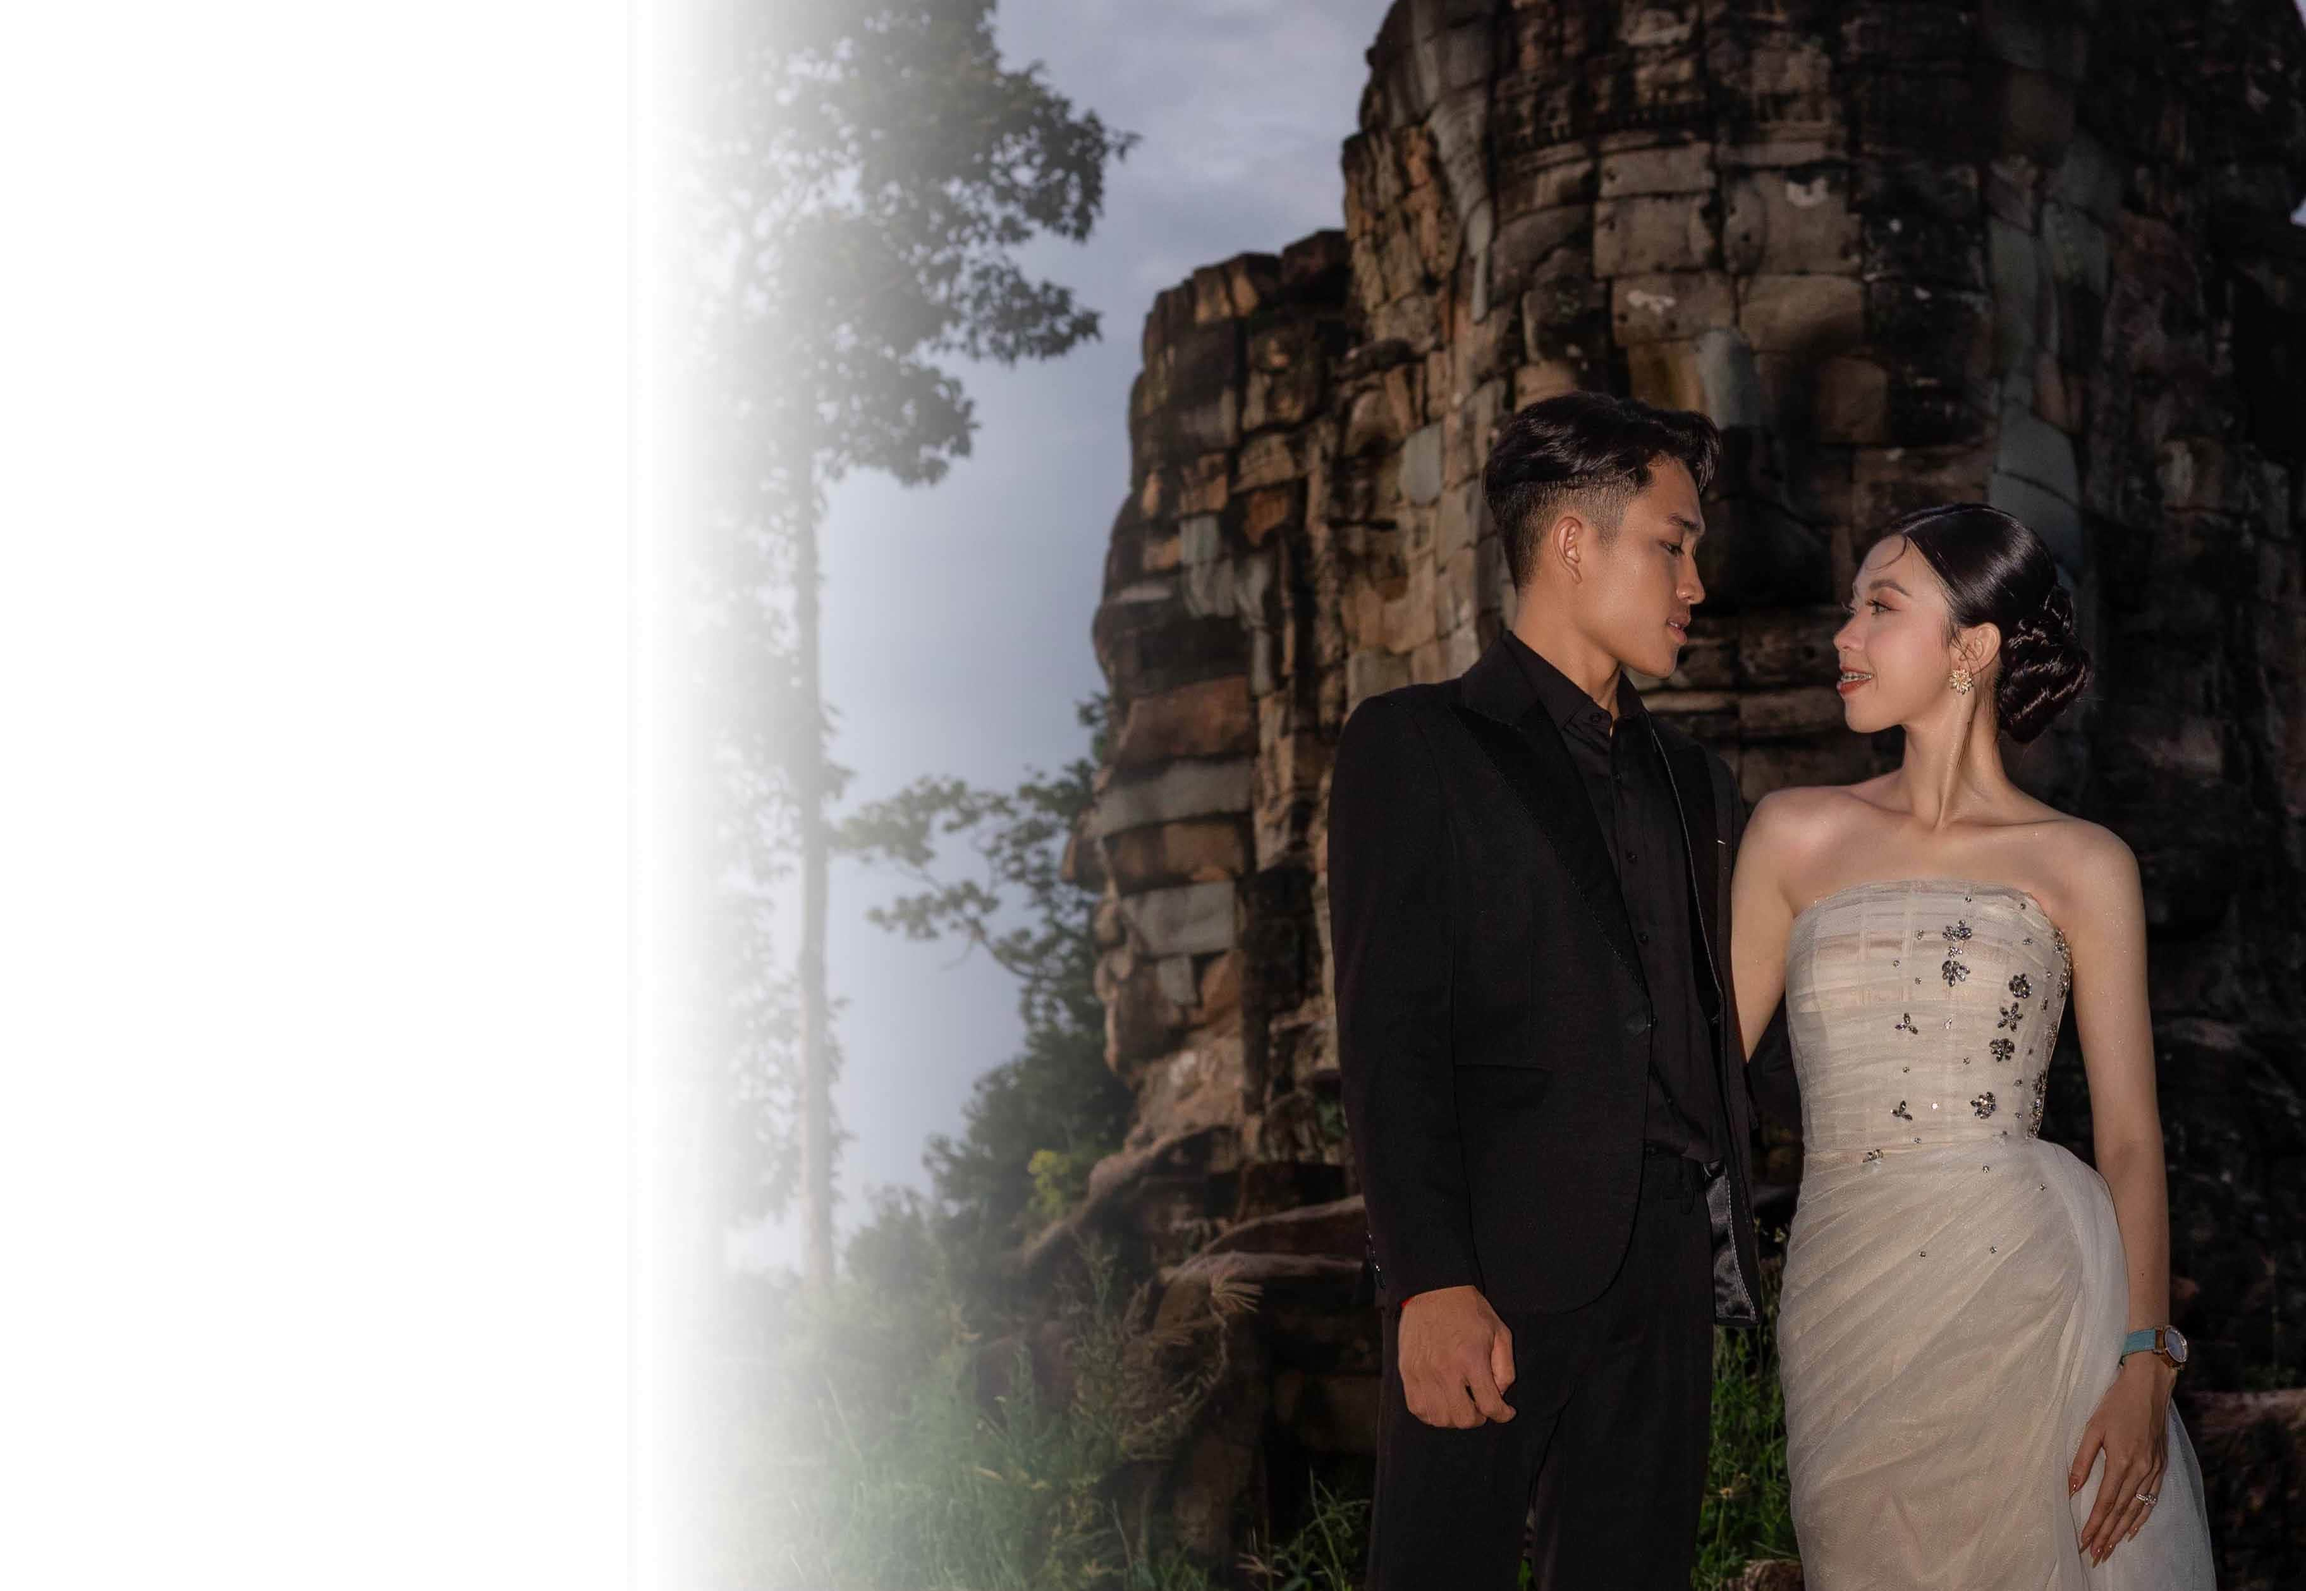
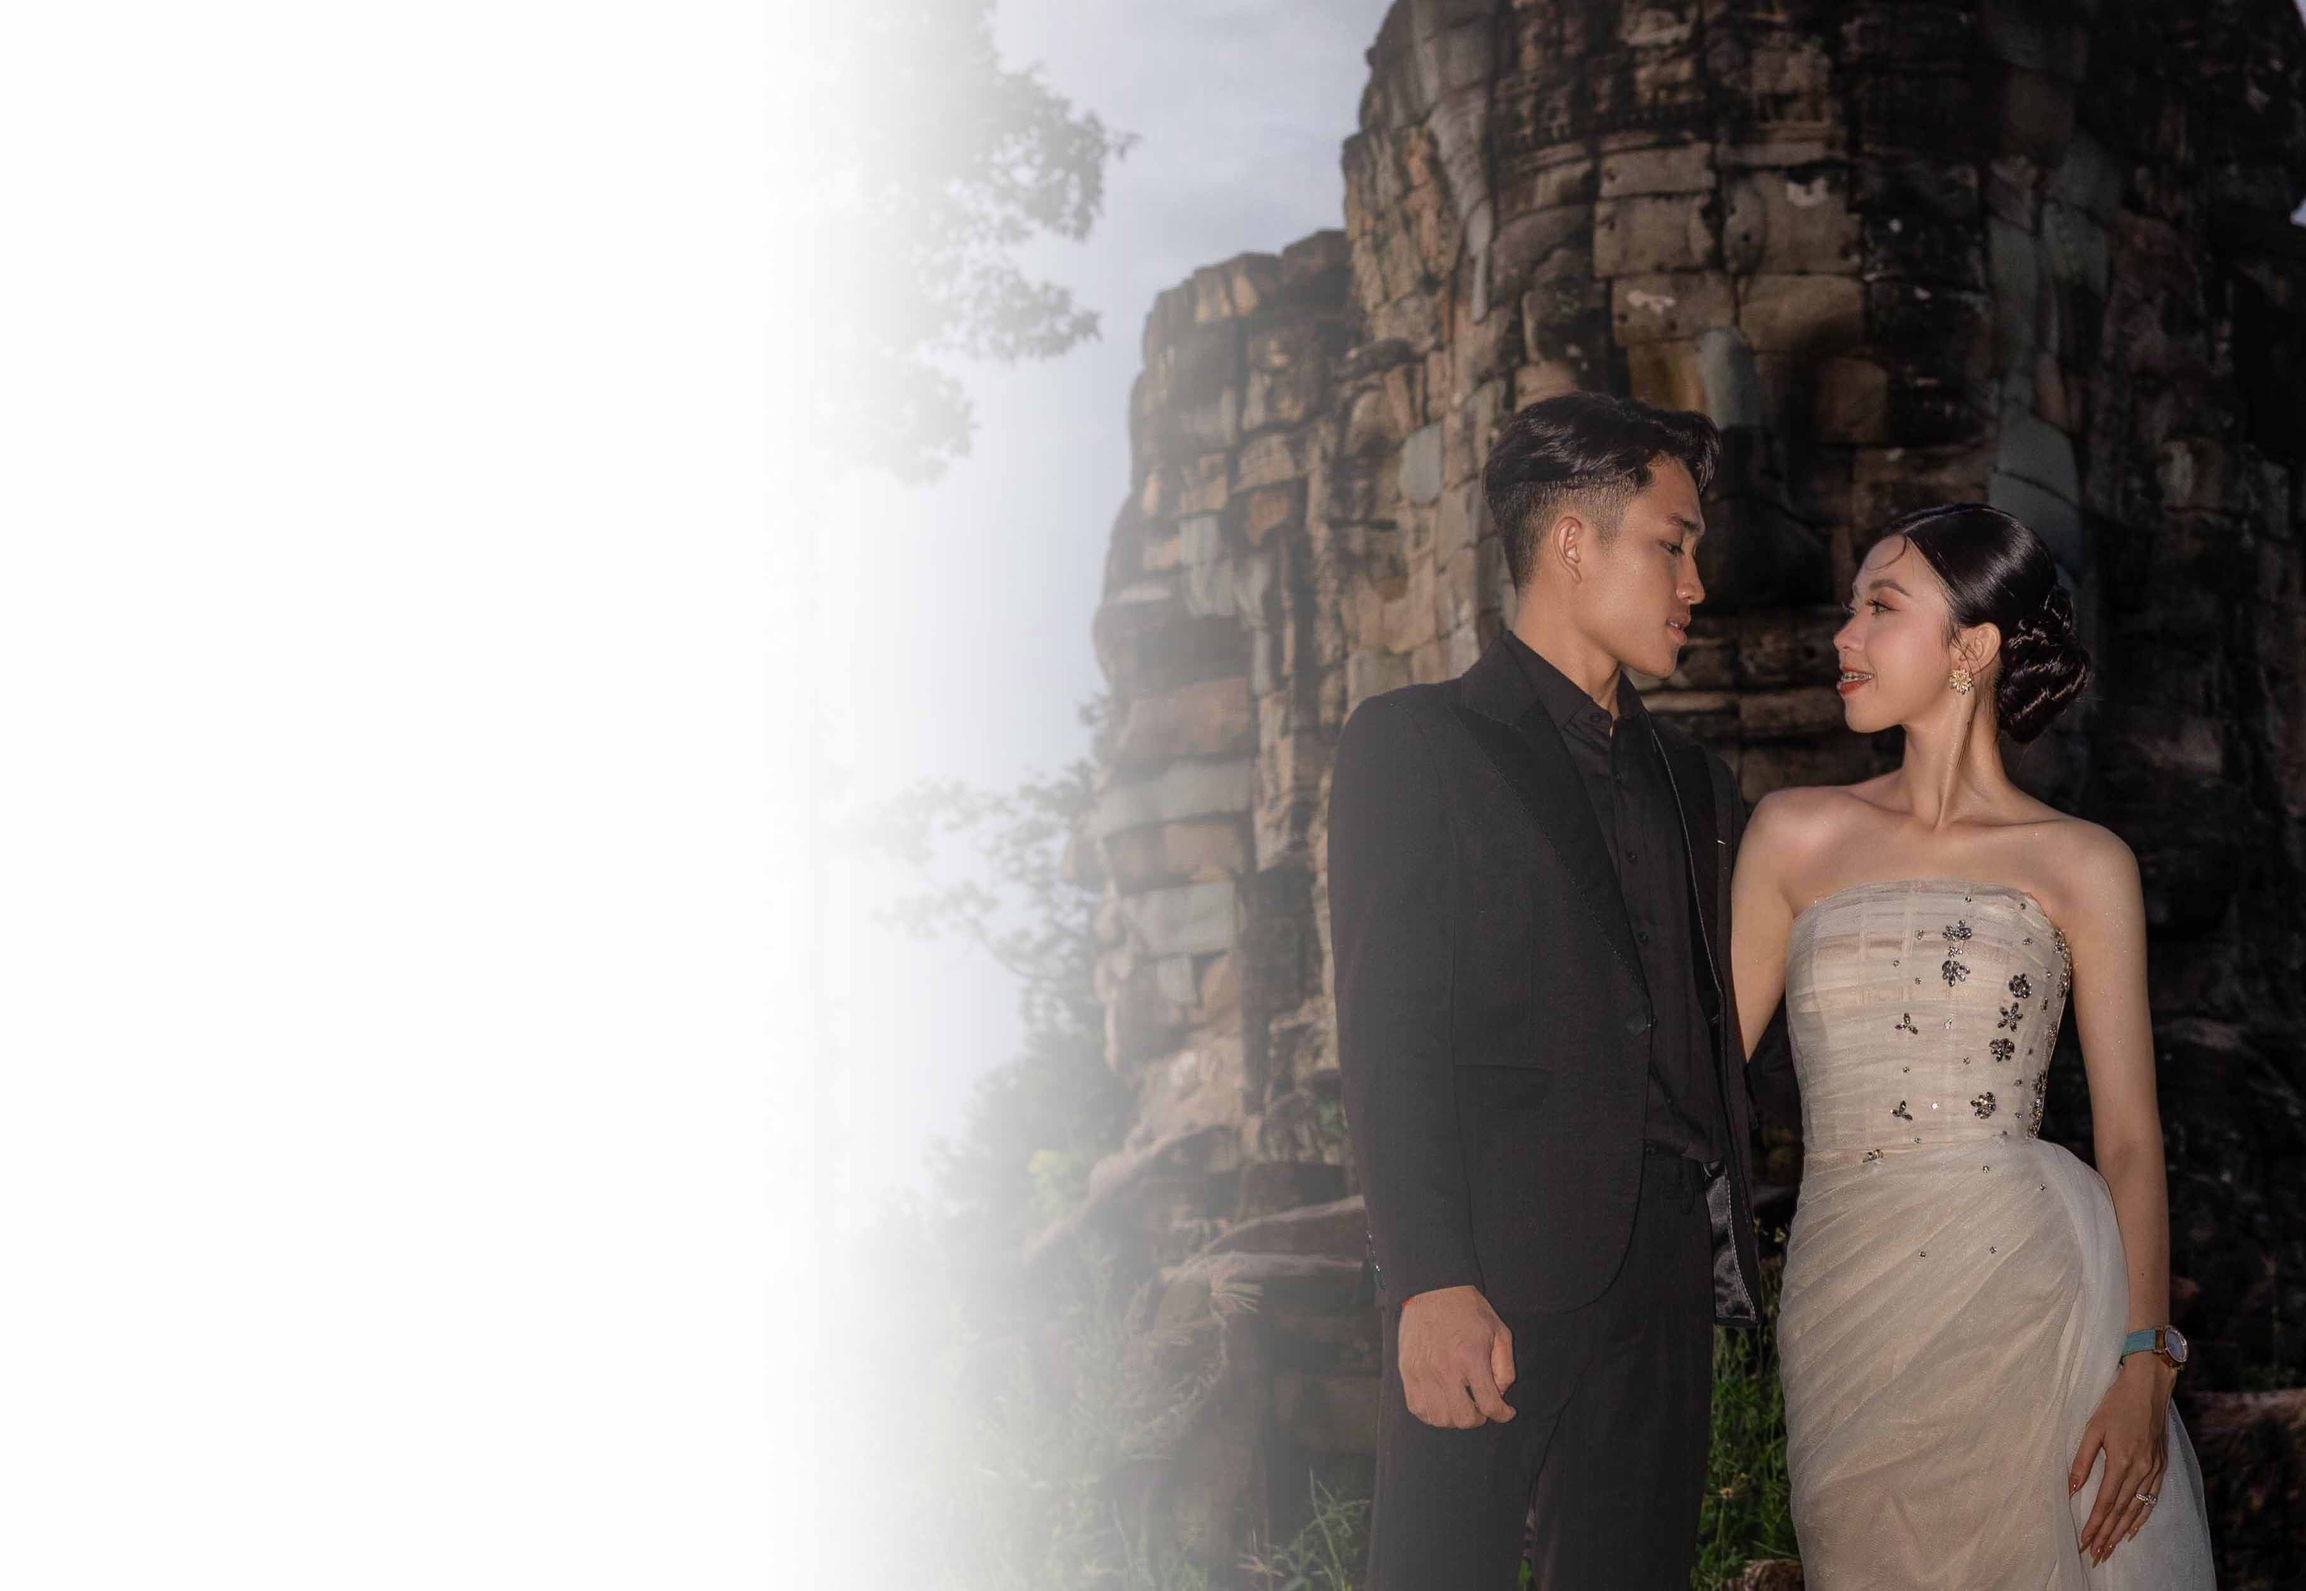
adjust bg

diff --git a/src/App.jsx b/src/App.jsx
@@ -323,7 +323,7 @@ export default function WeddingInvitation() {
               <div className="space-y-4">
                 <div className="relative p-6 rounded-2xl overflow-hidden bg-no-repeat border border-rose-200 shadow-md"
                   style={{backgroundImage: "url('/images/time-bg.jpg')",
-                  backgroundSize: "contain",
+                  backgroundSize: "cover",
                   backgroundPosition: "right center",
                   backgroundRepeat: "no-repeat",}}>
                   {/* <div className="absolute inset-0 bg-linear-to-r from-white/95 via-white/70 to-white/10 backdrop-blur-[0.5px]"></div> */}
